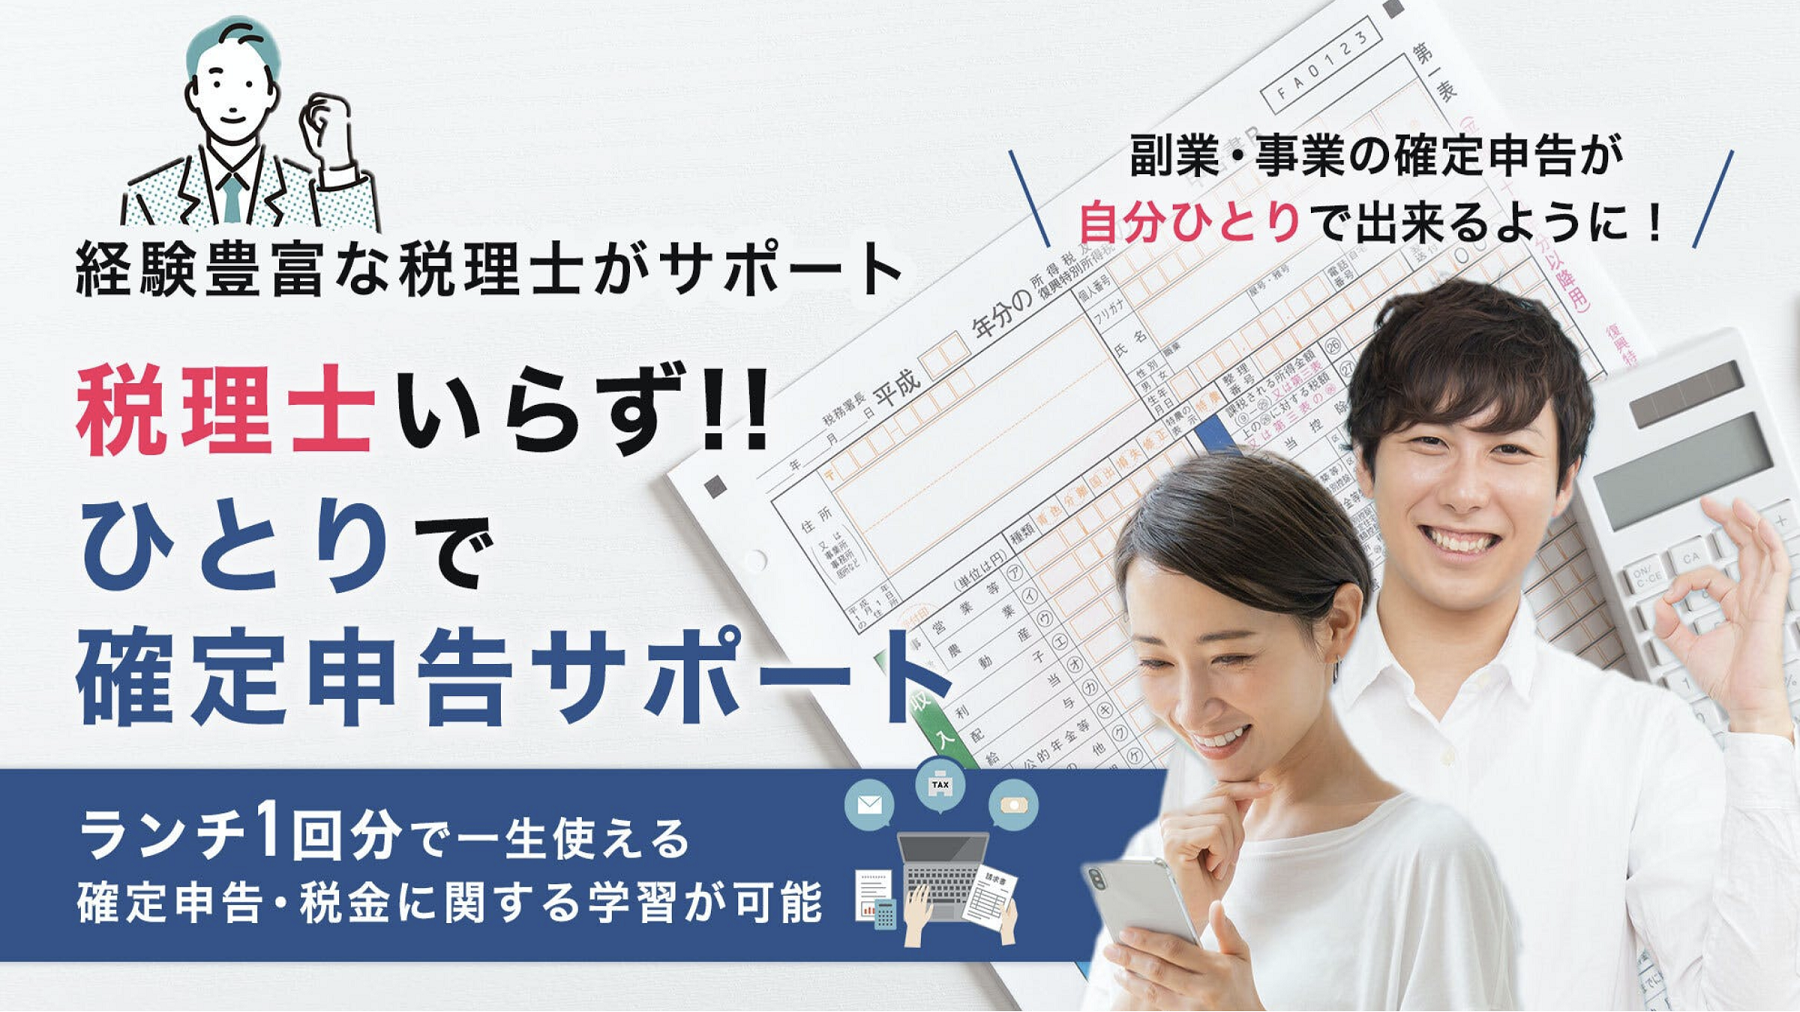
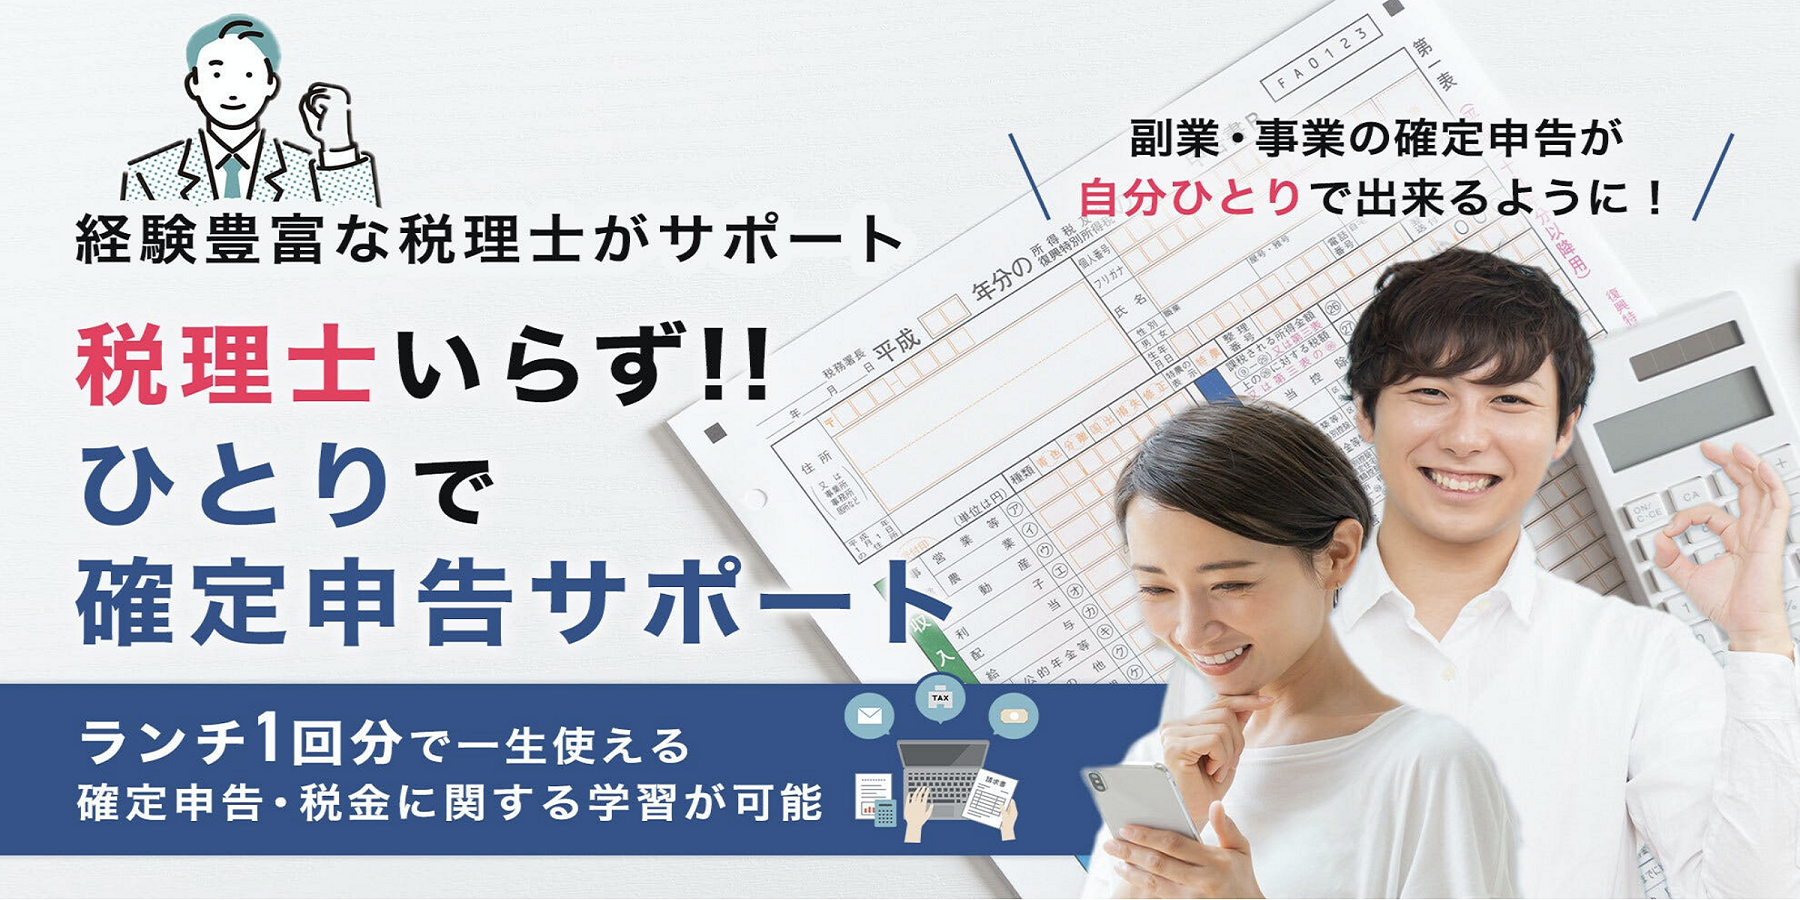
group top // top_szのimgplayを「2:1」に調整する

Changed region(s): [[0.6533, 0.9956, 0.7156, 1.0], [0.1244, 0.2489, 0.1867, 0.28], [0.84, 0.1244, 0.8711, 0.1556]]

diff --git a/wp-content/themes/strada_theme/css/style.css b/wp-content/themes/strada_theme/css/style.css
@@ -12587,7 +12587,7 @@ li {
   width: 100%;
   height: 0;
   overflow: hidden;
-  padding-bottom:50.625%;
+  padding-bottom:45%;
 }
 
 .imageplay ul {
@@ -12674,7 +12674,7 @@ ol li {
 
 @media screen and (max-width: 991px) {
   .imageplay {
-    padding-bottom:47.25%
+    padding-bottom:42%
   }
 
   /*.imageplay ul {
@@ -12714,7 +12714,7 @@ ol li {
 }
 @media screen and (max-width: 767px) {
   .imageplay {
-    padding-bottom:45%
+    padding-bottom:40%
   }
 
   /*.imageplay ul {

diff --git a/wp-content/themes/strada_theme/css/style_sz.css b/wp-content/themes/strada_theme/css/style_sz.css
@@ -12499,7 +12499,7 @@ li {
   width: 100%;
   height: 0;
   overflow: hidden;
-  padding-bottom:50.625%;
+  padding-bottom:45%;
 }
 
 .imageplay ul {
@@ -12586,7 +12586,7 @@ ol li {
 
 @media screen and (max-width: 991px) {
   .imageplay {
-    padding-bottom:47.25%
+    padding-bottom:42%
   }
 
   /*.imageplay ul {
@@ -12626,7 +12626,7 @@ ol li {
 }
 @media screen and (max-width: 767px) {
   .imageplay {
-    padding-bottom:45%
+    padding-bottom:40%
   }
 
   /*.imageplay ul {
